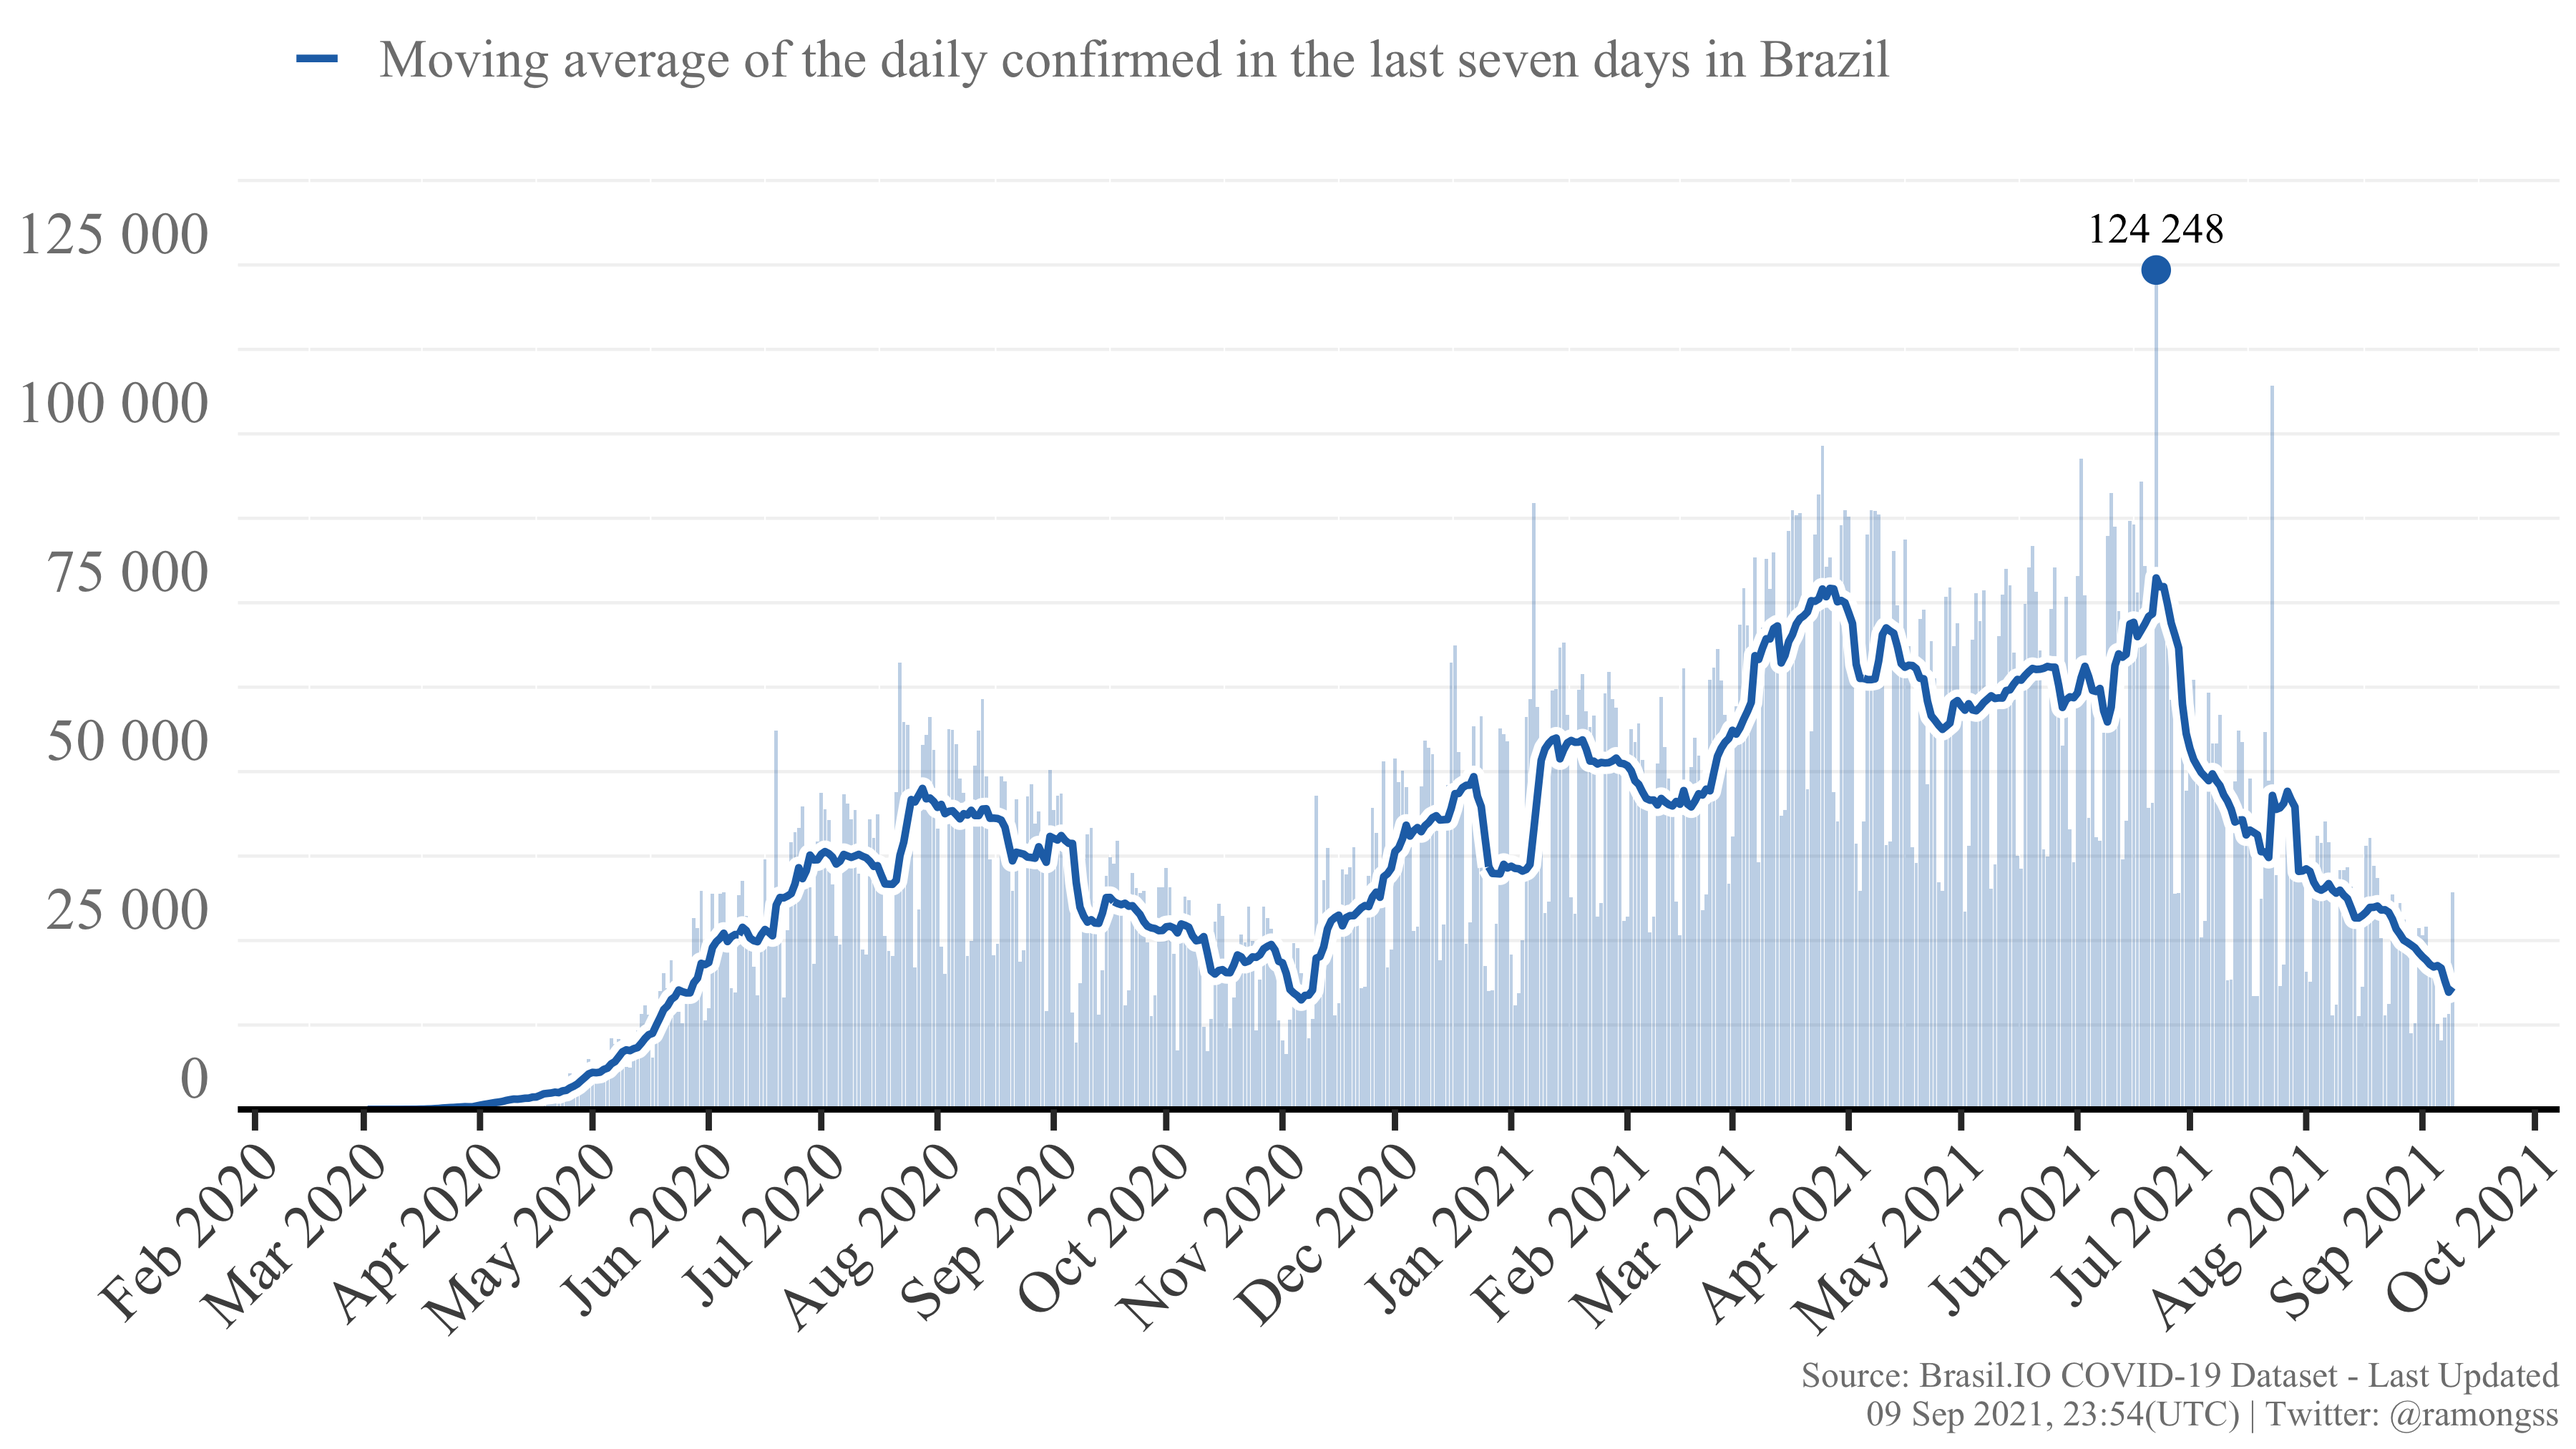
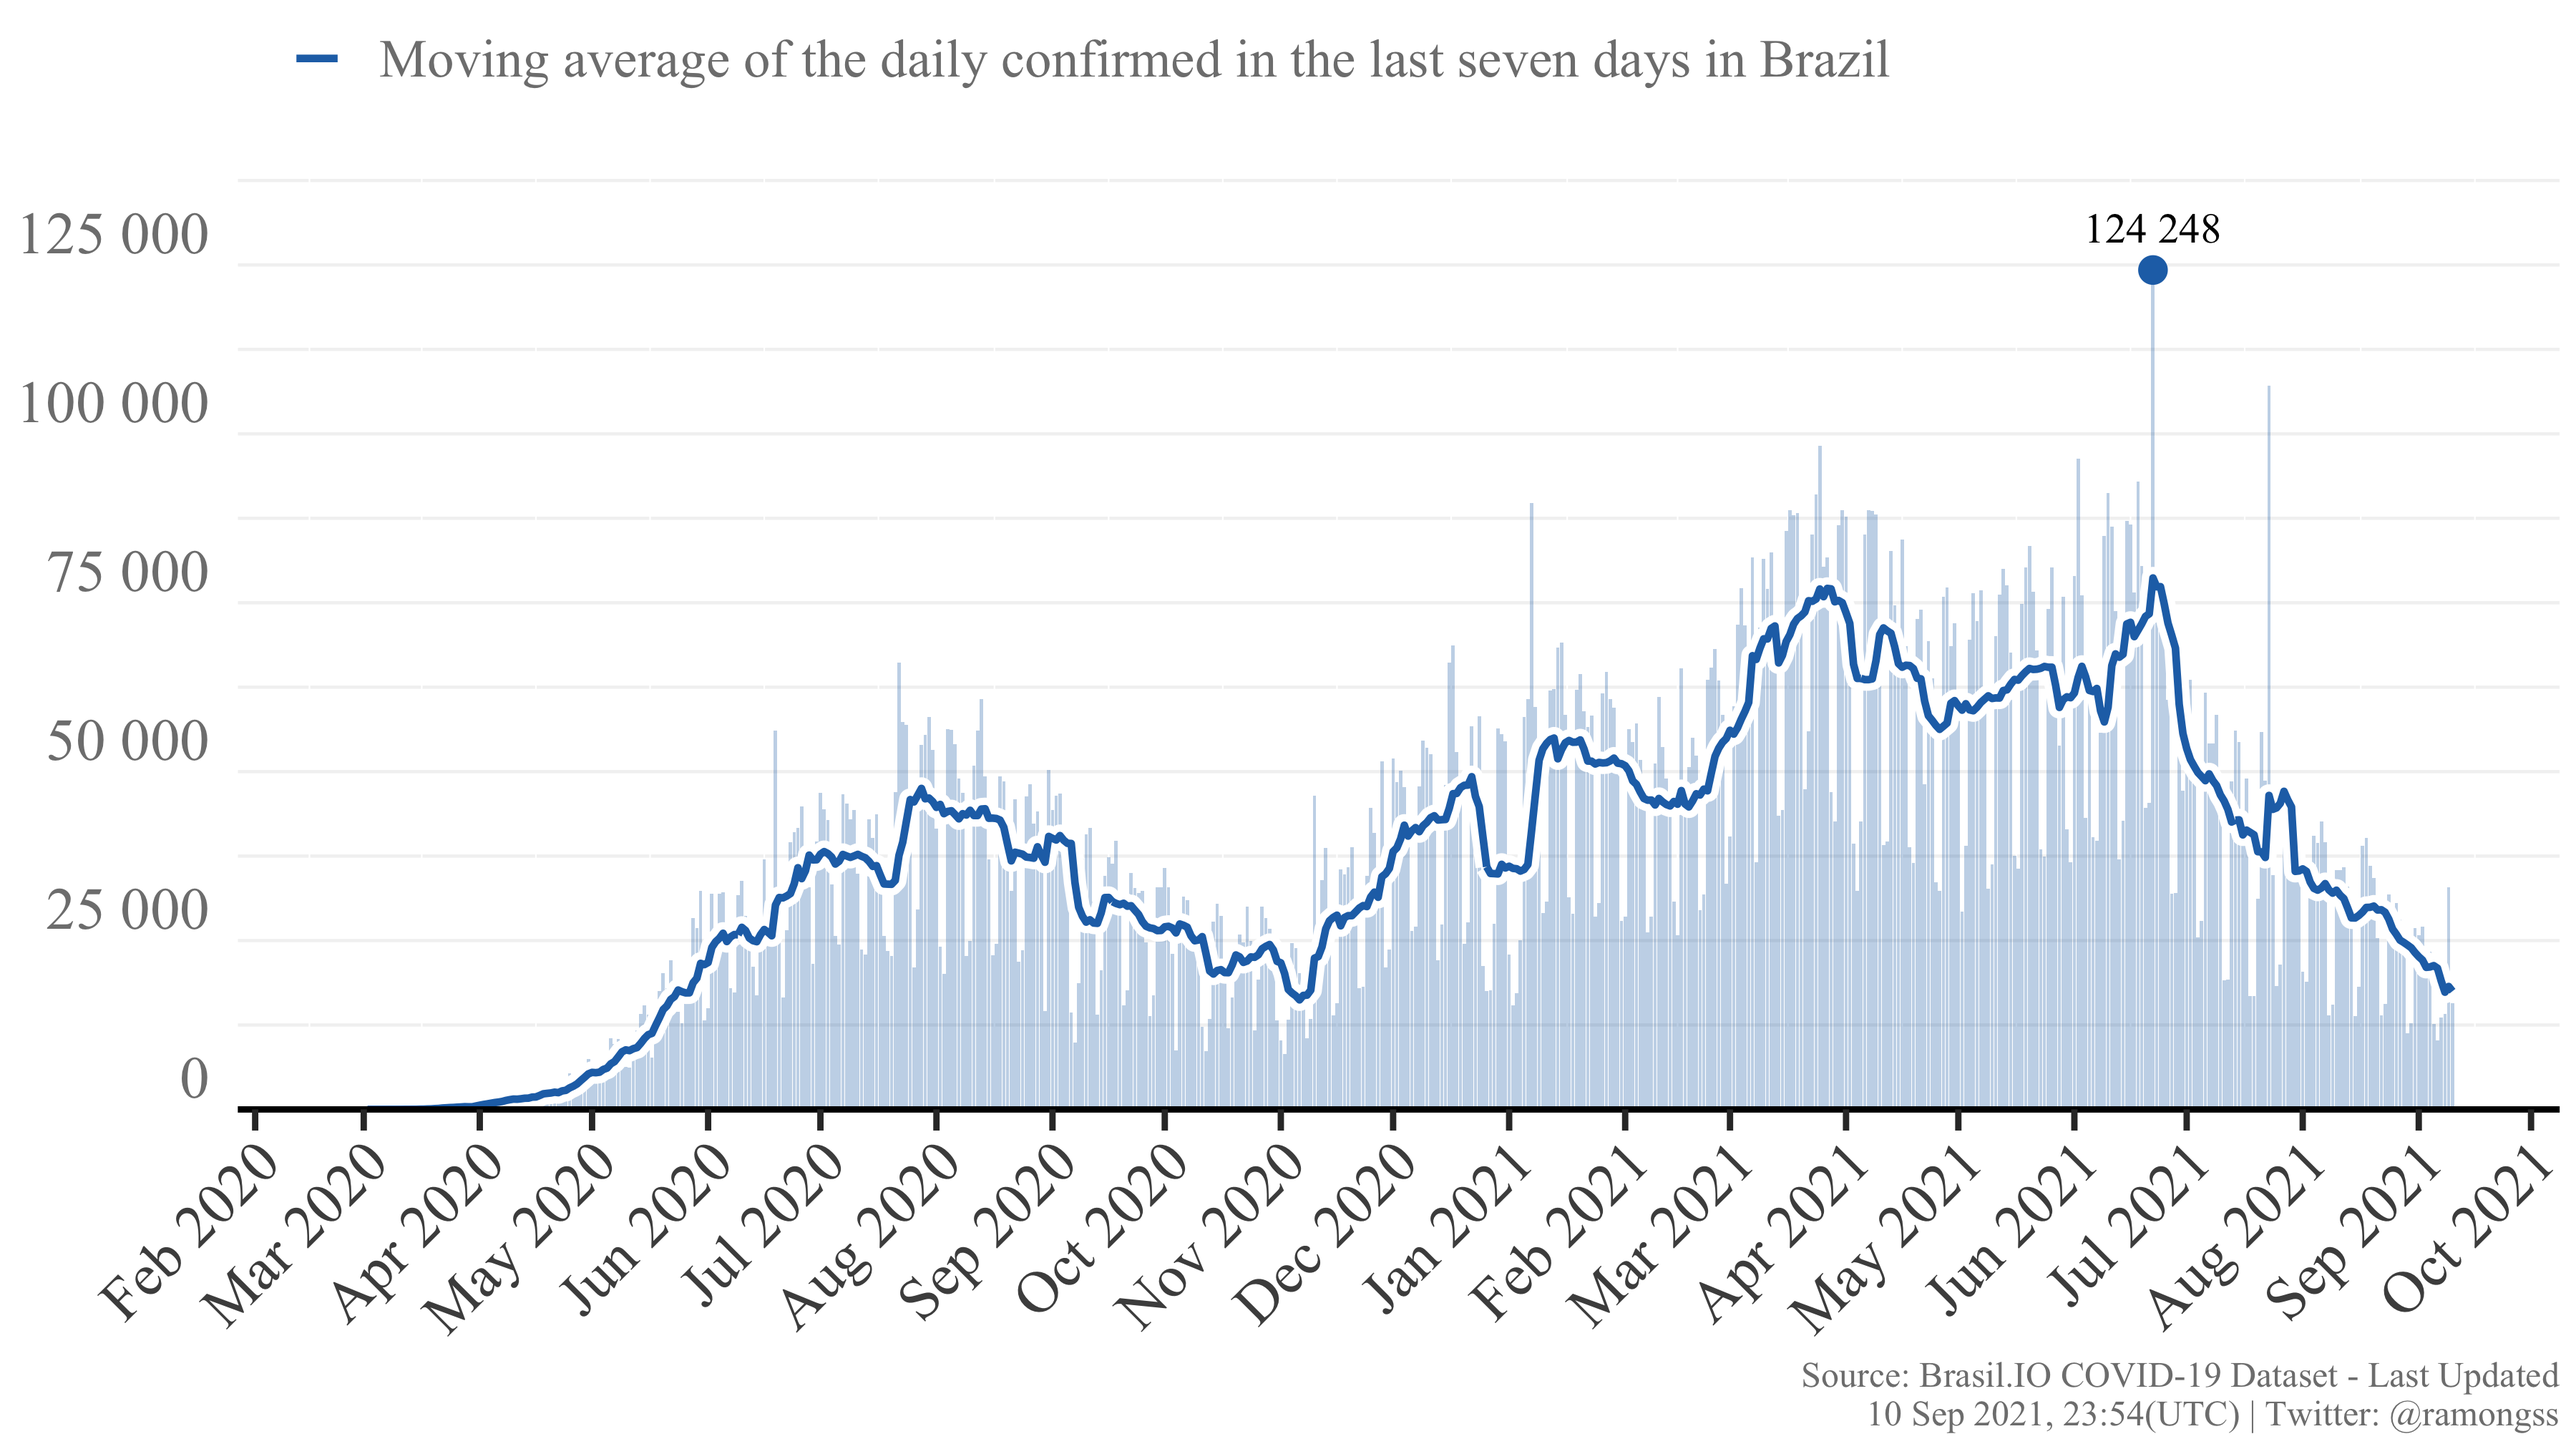
Re-build README.Rmd

diff --git a/README.md b/README.md
@@ -27,8 +27,8 @@ download_brasilio_table <- function(dataset = "covid19", table_name){
 
 ## COVID-19 Confirmed cases
 
-Currently, Brazil has a total of **20,964,588** confirmed cases at **09
-Sep, 2021**, with **32,129** new confirmed cases. The daily maximum
+Currently, Brazil has a total of **20,981,043** confirmed cases at **10
+Sep, 2021**, with **15,705** new confirmed cases. The daily maximum
 incidence was **124,248** confirmed cases at **22 Jun, 2021**. Here
 follows the Figure showing the confirmed case incidence as the bars, and
 the line as the moving average of the last 7 days.
@@ -37,8 +37,8 @@ the line as the moving average of the last 7 days.
 
 ## COVID-19 Deaths
 
-Currently, Brazil has a total of **585,419** deaths at **09 Sep, 2021**,
-with **731** new deaths. The daily maximum deaths incidence was
+Currently, Brazil has a total of **586,137** deaths at **10 Sep, 2021**,
+with **625** new deaths. The daily maximum deaths incidence was
 **4,148** deaths at **08 Apr, 2021**. Here follows the Figure showing
 the deaths incidence as the bars, and the line as the moving average of
 the last 7 days.
@@ -49,4 +49,4 @@ the last 7 days.
 
 This page is daily updated automatically using Github Actions.
 
-*Last update: 09 Sep 2021, 23:54 (UTC).*
+*Last update: 10 Sep 2021, 23:54 (UTC).*
